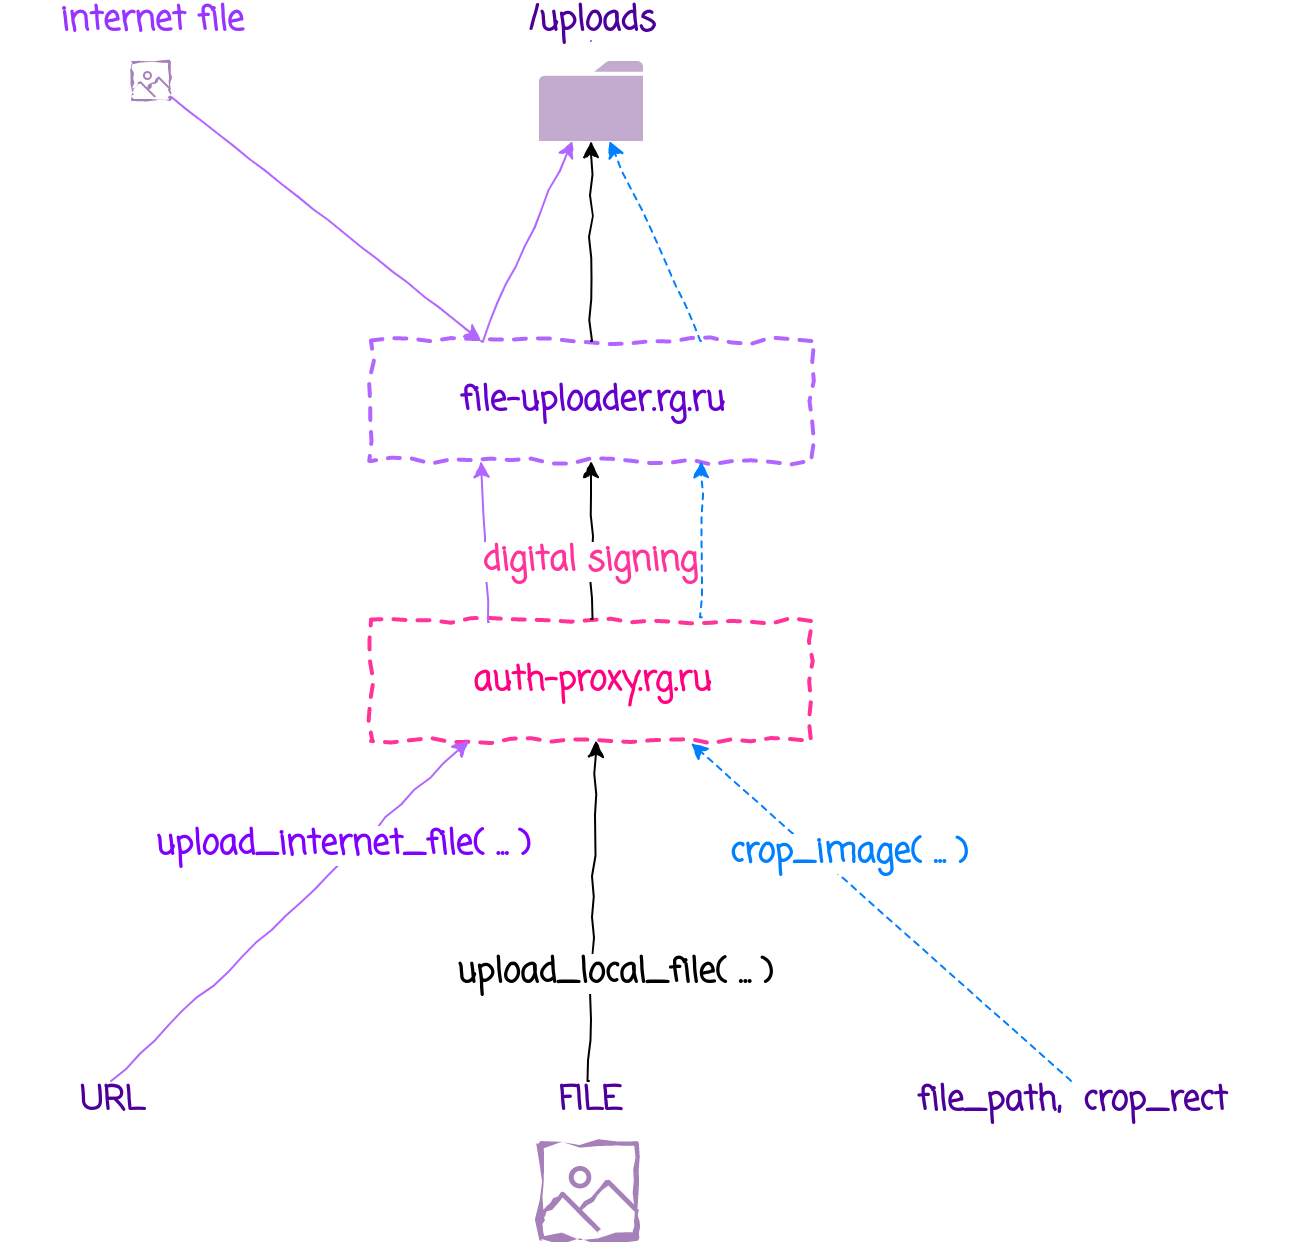
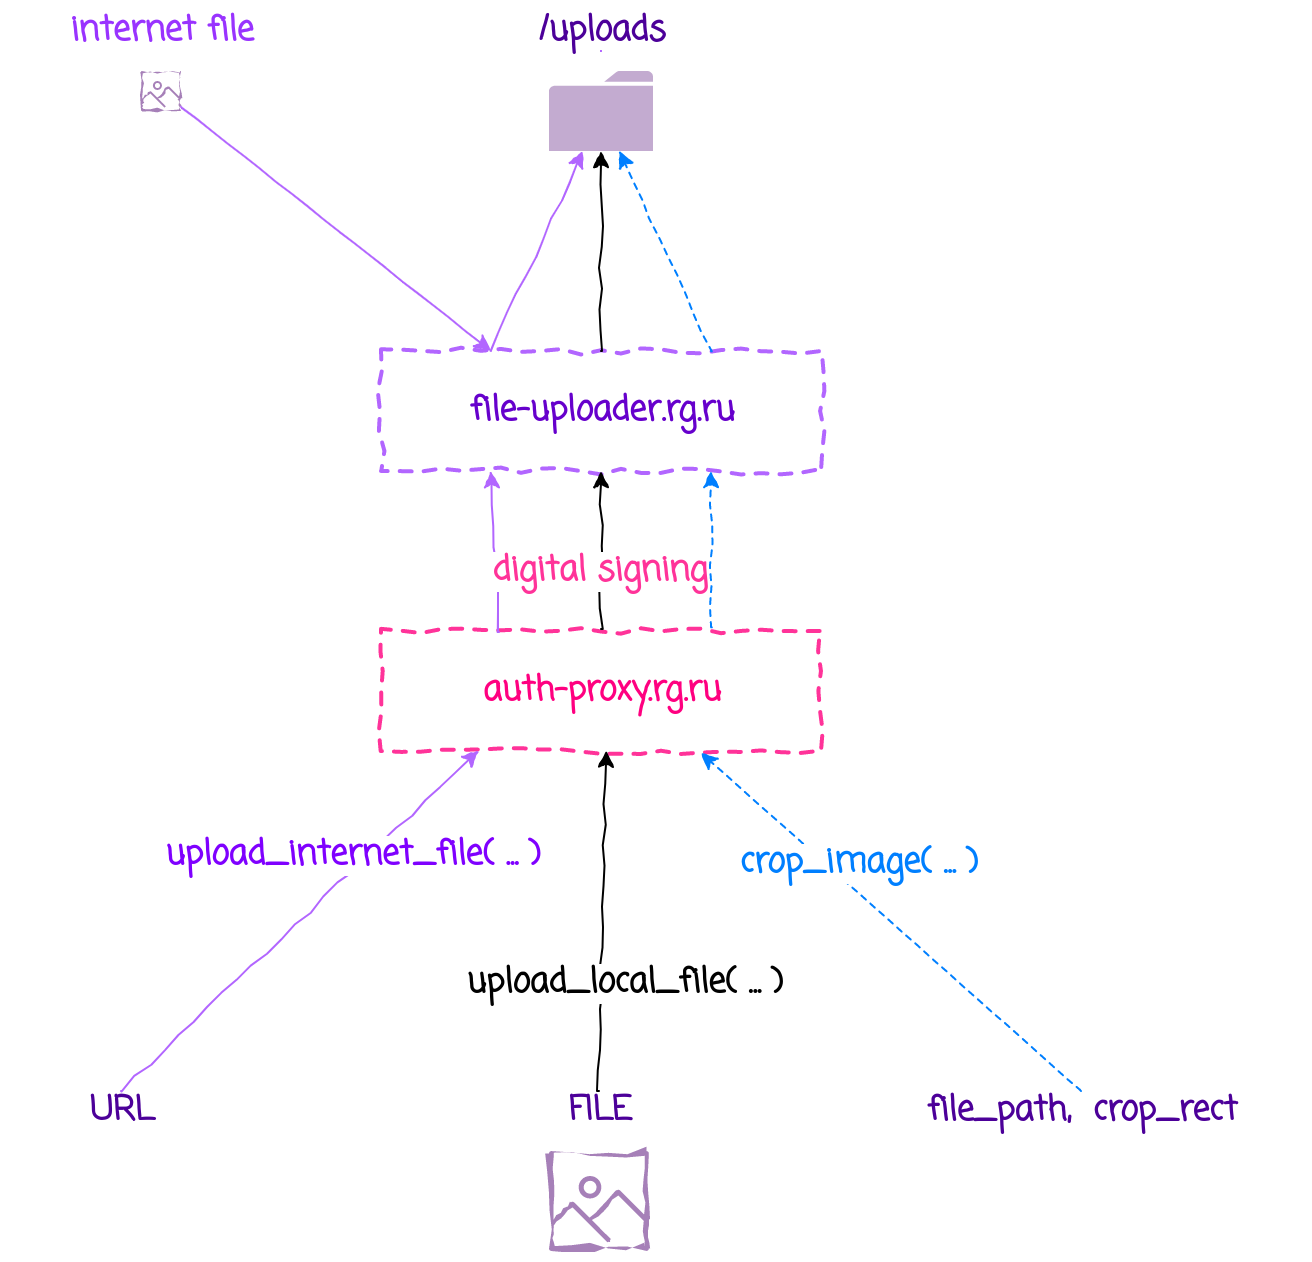
fix:

diff --git a/README.md b/README.md
@@ -1,9 +1,11 @@
 # File Uploader
+<div style="font-size:70px; font-weight:bold; color: violet;">FILE UPLOADER</div>
+
 
 ## Микросервис загрузки файлов, и обрезки загруженных изображений
 
 
-<img style="max-width:700px;" src="images/uploader.png">
+<img src="images/uploader.png">
 
 
 Загруженные файлы сохраняются в директории указанной в  `configs/img.yaml`.
